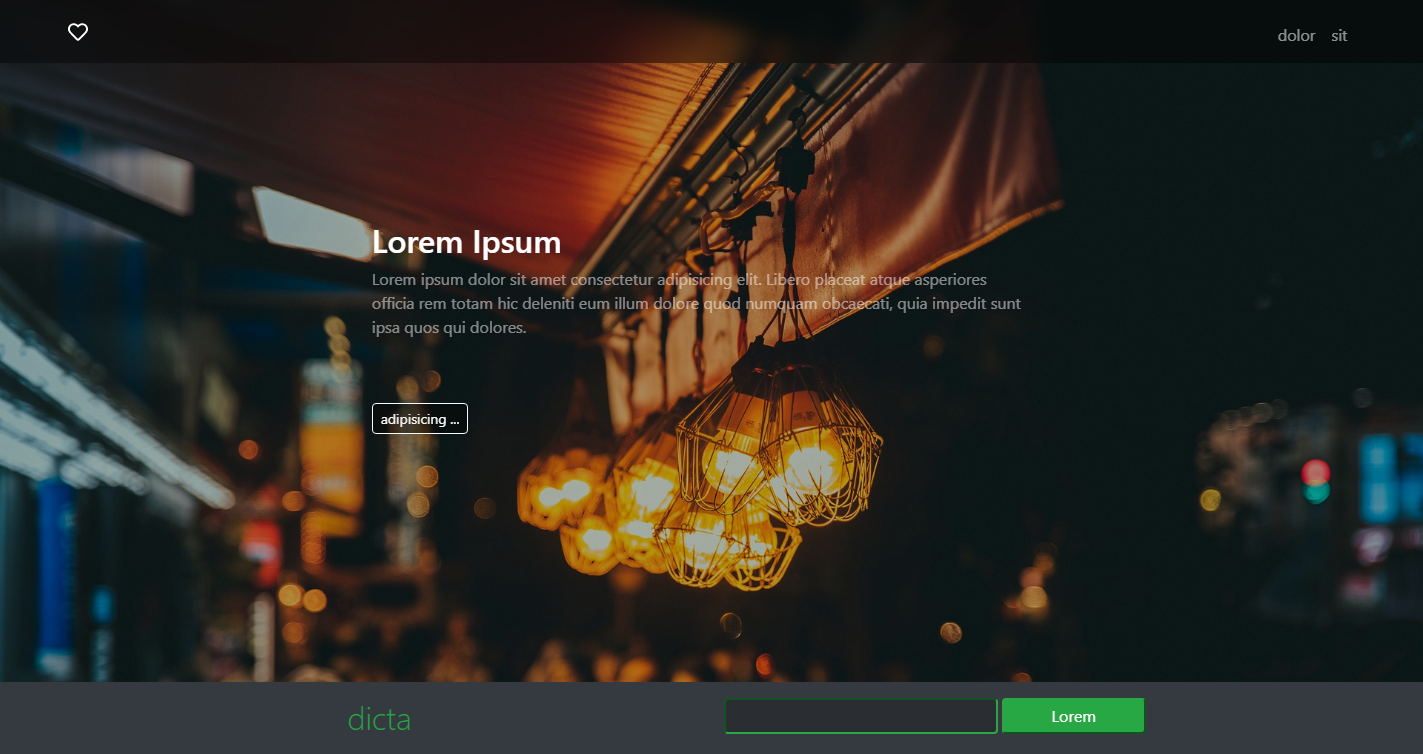
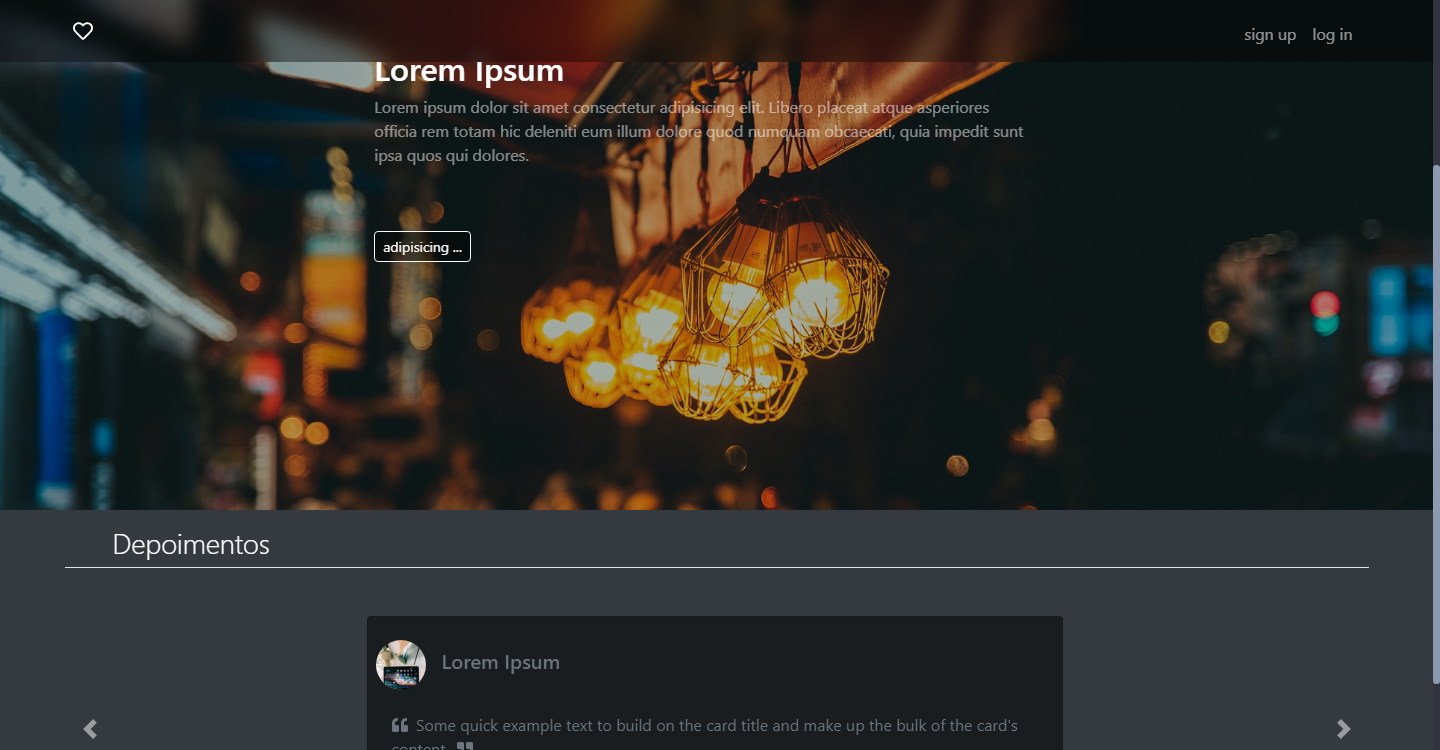
Updated Layouts

diff --git a/public/index.html b/public/index.html
@@ -44,10 +44,10 @@
         }
         *::-webkit-scrollbar-thumb {
             border-radius: 50rem;
-            background-color: #b74aff;
+            background-color: #8d99ae;
         }
         * {
-            scrollbar-color: #b74aff rgb(52, 52, 65);
+            scrollbar-color: #8d99ae rgb(52, 52, 65);
             scrollbar-width: thin;
         }
     </style>
@@ -189,11 +189,11 @@
                         <li data-target="#carouselExampleIndicators"></li>
                         <li data-target="#carouselExampleIndicators"></li>
                     </ol>
-                    <div class="carousel-inner" style="height: 300px">
+                    <div class="carousel-inner pb-5">
                         <div class="carousel-item active">
                             <div
                                 class="card-wrapper pr-1 mx-auto"
-                                style="max-width: 400px"
+                                style="max-width: 700px"
                             >
                                 <div
                                     class="card py-3 px-2"
@@ -212,7 +212,7 @@
                                         </div>
                                         <div class="card-body">
                                             <h5 class="card-title text-muted">
-                                                1 - username
+                                                Lorem Ipsum
                                             </h5>
                                         </div>
                                     </div>
@@ -243,7 +243,7 @@
                         <div class="carousel-item">
                             <div
                                 class="card-wrapper pr-1 mx-auto"
-                                style="max-width: 400px"
+                                style="max-width: 700px"
                             >
                                 <div
                                     class="card py-3 px-2"
@@ -262,7 +262,7 @@
                                         </div>
                                         <div class="card-body">
                                             <h5 class="card-title text-muted">
-                                                2 - username
+                                                Lorem Ipsum
                                             </h5>
                                         </div>
                                     </div>
@@ -293,7 +293,7 @@
                         <div class="carousel-item">
                             <div
                                 class="card-wrapper pr-1 mx-auto"
-                                style="max-width: 400px"
+                                style="max-width: 700px"
                             >
                                 <div
                                     class="card py-3 px-2"
@@ -312,7 +312,7 @@
                                         </div>
                                         <div class="card-body">
                                             <h5 class="card-title text-muted">
-                                                3 - username
+                                                Lorem Ipsum
                                             </h5>
                                         </div>
                                     </div>
@@ -343,7 +343,7 @@
                         <div class="carousel-item">
                             <div
                                 class="card-wrapper pr-1 mx-auto"
-                                style="max-width: 400px"
+                                style="max-width: 700px"
                             >
                                 <div
                                     class="card py-3 px-2"
@@ -362,7 +362,7 @@
                                         </div>
                                         <div class="card-body">
                                             <h5 class="card-title text-muted">
-                                                4 - username
+                                                Lorem Ipsum
                                             </h5>
                                         </div>
                                     </div>
@@ -393,7 +393,7 @@
                         <div class="carousel-item">
                             <div
                                 class="card-wrapper pr-1 mx-auto"
-                                style="max-width: 400px"
+                                style="max-width: 700px"
                             >
                                 <div
                                     class="card py-3 px-2"
@@ -412,7 +412,7 @@
                                         </div>
                                         <div class="card-body">
                                             <h5 class="card-title text-muted">
-                                                5 - username
+                                                Lorem Ipsum
                                             </h5>
                                         </div>
                                     </div>
@@ -444,6 +444,7 @@
                     <a
                         class="carousel-control-prev"
                         href="#carouselExampleIndicators"
+                        style="width: 50px"
                         role="button"
                         data-slide="prev"
                     >
@@ -455,6 +456,7 @@
                     </a>
                     <a
                         class="carousel-control-next"
+                        style="width: 50px"
                         href="#carouselExampleIndicators"
                         role="button"
                         data-slide="next"

diff --git a/README.md b/README.md
@@ -15,10 +15,8 @@
 
 -   HTML
 -   CSS
--   Sass
 -   MVC
--   PHP
--   JQuery
+-   Node Js
 -   Ajax
 -   Api-Rest
 -   mysql
